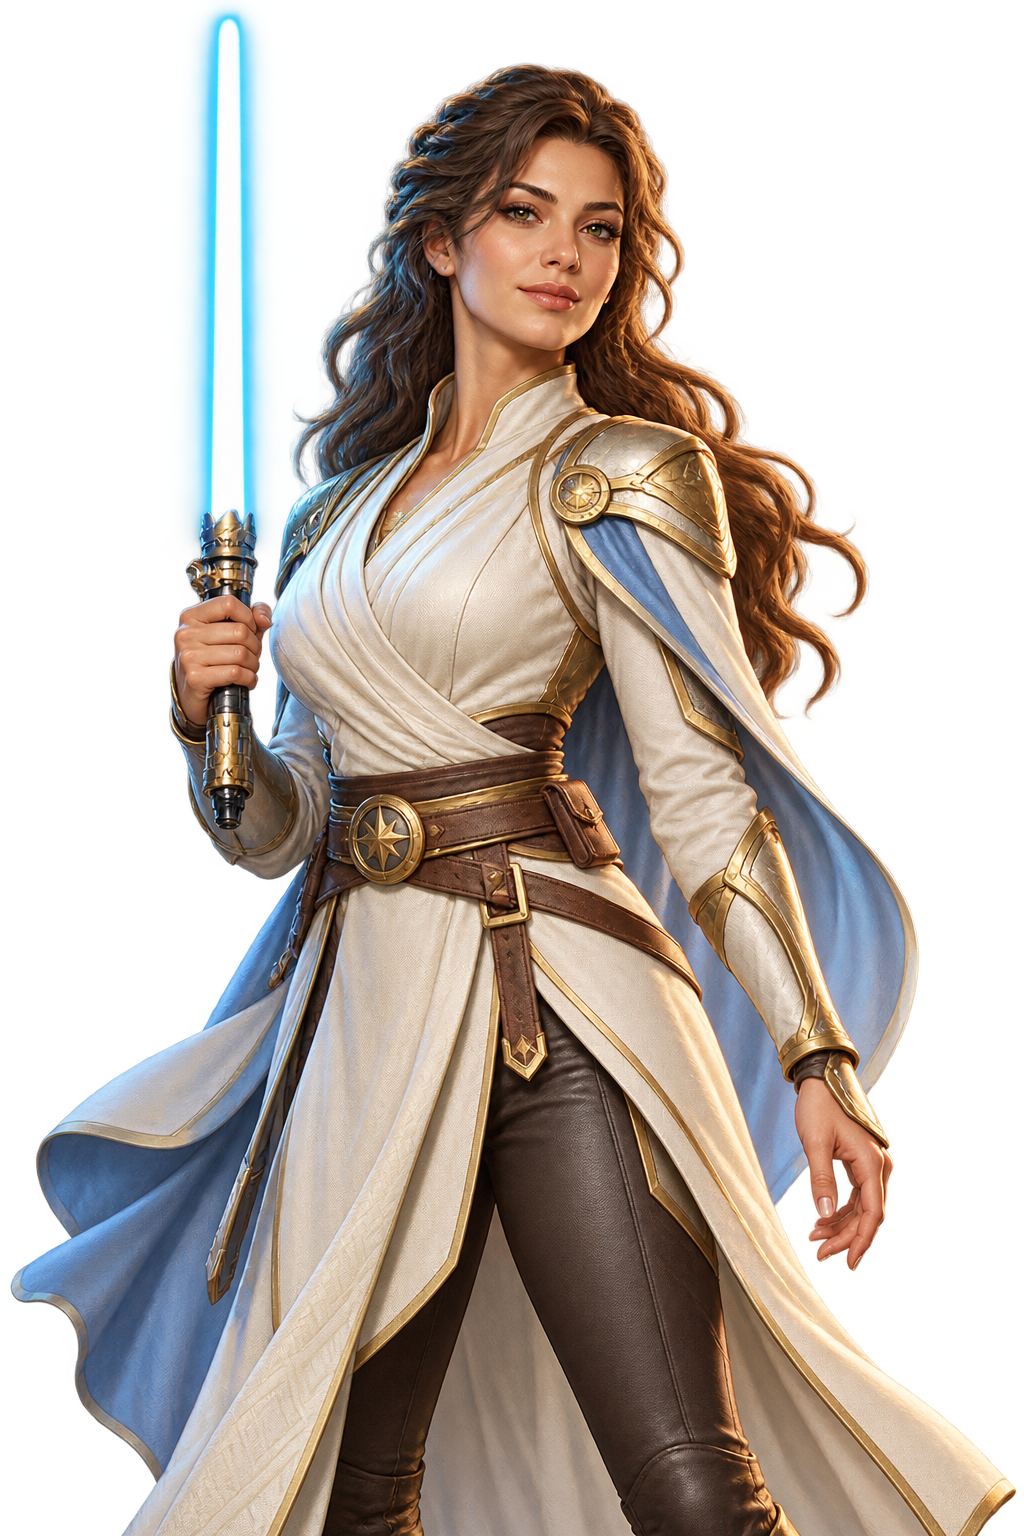
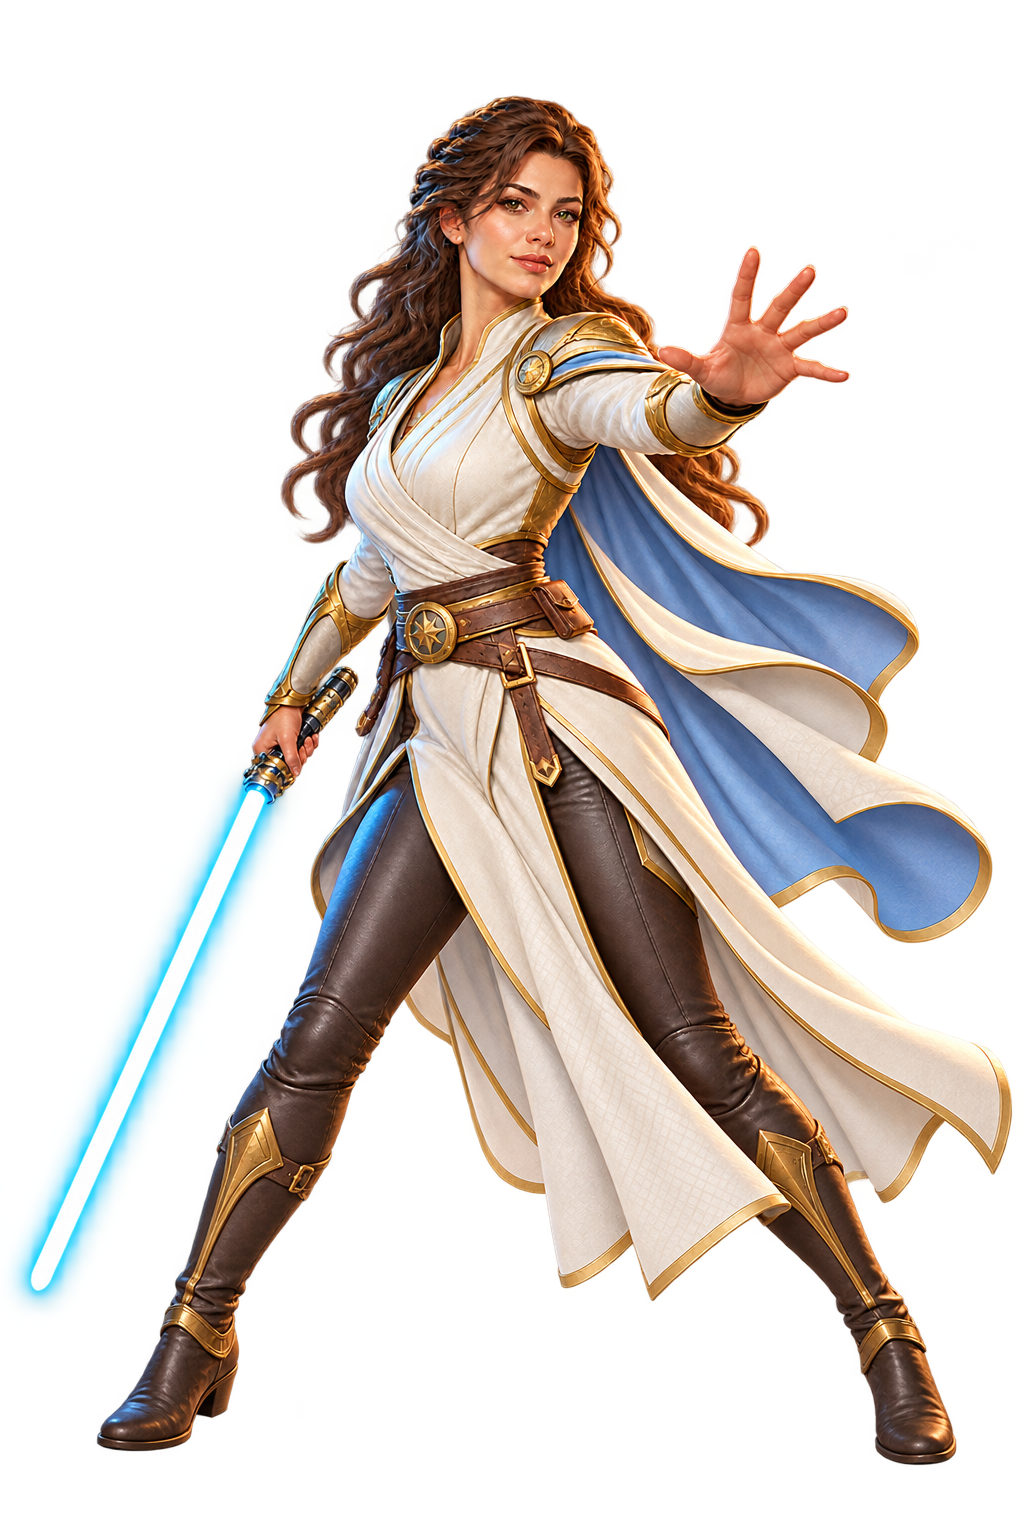
Give Star Spin companions distinct poses and verify free collection in the real host

diff --git a/tests/wild-nudge-host.spec.ts b/tests/wild-nudge-host.spec.ts
@@ -29,8 +29,25 @@ async function topup(page:Page){const r=await page.request.post('/__test/nudge/t
 async function scenario(page:Page,name:string){expect((await page.request.post('/__test/nudge/scenario',{data:{name}})).ok()).toBe(true);}
 async function session(page:Page){return page.evaluate(async()=>{const url='/src/wallet/ExpansionClient.ts';return(await import(/* @vite-ignore */url)).expansionClient.sessions.find((s:any)=>s.gameId==='studio-wild-nudge');});}
 async function spin(page:Page){await page.locator('[data-gn=spin]').click();await expect.poll(async()=>(await mini(page))?.busy).toBe(false);await expect.poll(async()=>(await mini(page))?.presenting).toBe(false);expect(await page.locator('[data-gn=status]').textContent()).not.toContain('не подтвержд');}
-async function fast(page:Page){await page.locator('[data-gn=settings]').click();await page.locator('[data-setting=fast]').check();await page.locator('[data-setting=music]').uncheck();await page.locator('[data-gn=close]').click();await expect(page.locator('.gn-modal')).toBeHidden();}
+async function fast(page:Page){await page.locator('[data-gn=settings]').click();await page.locator('[data-setting=fast]').check();await page.locator('[data-setting=music]').uncheck();await page.locator('[data-gn=close]').click();await expect(page.locator('[data-gn=modal]')).toBeHidden();}
 
+test('Star Spin side choice, free challenges and permanent companions use the real host account',async({page,roomPath})=>{
+ await enter(page,roomPath);await open(page);await expect(page.locator('.gn-title h2')).toHaveText('Star Spin');await expect(page.locator('[data-ss="side:light"]')).toBeEnabled();
+ await page.locator('[data-ss="side:light"]').click();await expect(page.locator('.gn')).toHaveAttribute('data-character','lyra');await expect(page.locator('[data-ss-portrait]')).toBeVisible();
+ await page.locator('[data-gn=crew]').click();await expect(page.locator('.ss-dialog')).toBeVisible();await page.getByRole('button',{name:'Задания',exact:true}).click();
+ for(const [id,answer]of [['lesson-side','0'],['lesson-wild','1'],['lesson-bonus','2'],['daily-archive','0']]){await page.locator(`[data-ss="answer:${id}:${answer}"]`).click();await expect(page.locator(`[data-ss="answer:${id}:${answer}"]`)).toHaveCount(0);}
+ await expect(page.locator('[data-ss-tokens]')).toHaveText('200');await page.locator('[data-ss="tab:light"]').click();await page.locator('[data-ss="unlock:aeliri"]').click();await expect(page.locator('[data-ss="select:aeliri"]')).toBeEnabled();await page.locator('[data-ss="select:aeliri"]').click();await expect(page.locator('.gn')).toHaveAttribute('data-character','aeliri');
+ await page.locator('[data-ss="tab:dark"]').click();await page.locator('[data-ss="unlock:nyxara"]').click();await expect(page.locator('[data-ss-tokens]')).toHaveText('0');await page.locator('[data-ss="select:nyxara"]').click();await expect(page.locator('.gn')).toHaveAttribute('data-character','nyxara');await page.locator('[data-ss=close]').click();
+ await page.screenshot({path:output+'/star-spin-dark.png'});await page.locator('#mini-dialog .mini-top [data-close]').click();await open(page);await expect(page.locator('.gn')).toHaveAttribute('data-character','nyxara');await expect(page.locator('[data-gn=spin]')).toBeDisabled();
+ await page.locator('[data-ss="side:light"]').click();await expect(page.locator('.gn')).toHaveAttribute('data-character','aeliri');await page.screenshot({path:output+'/star-spin-light.png'});expect(await session(page)).toBeUndefined();
+ await page.setViewportSize({width:390,height:844});await page.locator('[data-gn=crew]').click();await expect(page.locator('[data-ss-card=aeliri]')).toBeInViewport();await page.screenshot({path:output+'/star-spin-mobile-collection.png'});await page.keyboard.press('Escape');await expect(page.locator('.ss-dialog')).toBeHidden();await expect(page.locator('#chat-input')).toBeInViewport();
+});
+test('companion selection is locked during an accepted bonus and pending cosmetic replies recover with the same UUID',async({page,roomPath})=>{
+ await enter(page,roomPath);await topup(page);await open(page);await fast(page);await expect(page.locator('[data-ss="side:light"]')).toBeEnabled();const ids:string[]=[];let drop=true;
+ await page.route('**/api/star-spin/collection',async route=>{if(route.request().method()==='POST'){ids.push(route.request().postDataJSON().id);if(drop){drop=false;await route.fetch();await route.abort('failed');return;}}await route.continue();});
+ await page.locator('[data-ss="side:light"]').click();await expect.poll(async()=>(await mini(page)).collection.pending).toBe(true);await expect(page.locator('[data-gn=spin]')).toBeDisabled();await page.locator('[data-gn=crew]').click();await page.locator('[data-ss=retry]').click();await expect(page.locator('.gn')).toHaveAttribute('data-character','lyra');expect(ids).toHaveLength(2);expect(ids[0]).toBe(ids[1]);await page.locator('[data-ss=close]').click();
+ await scenario(page,'bonus');await spin(page);await expect(page.locator('[data-ss="side:dark"]')).toBeDisabled();await page.locator('[data-gn=crew]').click();await page.locator('[data-ss="tab:dark"]').click();await expect(page.locator('[data-ss="select:vespera"]')).toBeDisabled();await page.locator('[data-ss=close]').click();for(let i=0;i<8;i++)await spin(page);await expect(page.locator('[data-ss="side:dark"]')).toBeEnabled();
+});
 test('ordinary paid spin and all eight free continuations use the real host and common wallet',async({page,roomPath})=>{
  await enter(page,roomPath);await topup(page);await open(page);await fast(page);await scenario(page,'bonus');await spin(page);
  let saved=await session(page);expect(saved.view.wildNudge.remaining).toBe(8);expect(saved.spentUnits).toBe('100');expect(saved.returnedUnits).toBe('0');await expect(page.locator('[data-gn=stake]')).toBeDisabled();
@@ -70,7 +87,7 @@ test('responsive host keeps chat, settings and controls reachable without moving
  await spin(page);const drift=await page.evaluate(()=>{const state=(window as any).__gnAnchors;state.running=false;return Math.max(...state.samples.flatMap((s:any)=>s.flatMap((r:any,i:number)=>r.map((v:number,j:number)=>Math.abs(v-state.samples[0][i][j])))));});expect(drift).toBeLessThanOrEqual(.75);await writeFile(output+'/layout-verification.json',JSON.stringify({measurements,spinPanelDrift:drift},null,2));
 });
 test('settings persist, Escape closes only the inner panel and typing in chat cannot start a spin',async({page,roomPath})=>{
- await enter(page,roomPath);await topup(page);await open(page);await fast(page);await page.locator('[data-gn=settings]').click();await page.locator('[data-setting=effects]').uncheck();await page.locator('[data-setting=reduced]').check();await page.keyboard.press('Escape');await expect(page.locator('.gn-modal')).toBeHidden();await expect(page.locator('.gn')).toBeVisible();
+ await enter(page,roomPath);await topup(page);await open(page);await fast(page);await page.locator('[data-gn=settings]').click();await page.locator('[data-setting=effects]').uncheck();await page.locator('[data-setting=reduced]').check();await page.keyboard.press('Escape');await expect(page.locator('[data-gn=modal]')).toBeHidden();await expect(page.locator('.gn')).toBeVisible();
  const before=await session(page);await page.locator('#chat-input').fill('Проверка пробела');await page.locator('#chat-input').press('Space');await expect(page.locator('#chat-input')).toHaveValue('Проверка пробела ');expect(await session(page)).toEqual(before);
  await page.locator('#mini-dialog .mini-top [data-close]').click();await open(page);await page.locator('[data-gn=settings]').click();await expect(page.locator('[data-setting=music]')).not.toBeChecked();await expect(page.locator('[data-setting=effects]')).not.toBeChecked();await expect(page.locator('[data-setting=fast]')).toBeChecked();await expect(page.locator('[data-setting=reduced]')).toBeChecked();
 });

diff --git a/scripts/wild-nudge-preview.ts b/scripts/wild-nudge-preview.ts
@@ -1,6 +1,6 @@
 /** Disposable full-host verification. Production has no fixture endpoints or forced outcomes. */
 import {spawn} from 'node:child_process';
-import {randomUUID} from 'node:crypto';
+import {randomUUID,randomInt} from 'node:crypto';
 import {mkdir,writeFile} from 'node:fs/promises';
 import {createServer,type Plugin} from 'vite';
 import {temporaryDatabase} from './database-test';
@@ -14,14 +14,18 @@ let logs='',stopping=false,db:PostgresDatabase|undefined,wallet:DemoWalletStore;
 const forced=new Map<string,number[]>();
 backend.stdout.on('data',v=>logs=(logs+v).slice(-6000));backend.stderr.on('data',v=>logs=(logs+v).slice(-6000));
 const scenarios:Record<string,number[]>={loss:[30,30,30,30,30],nudge:[1,2,62,63,30],bonus:[2,45,2,16,14,...Array(40).fill(30)],maximum:[2,45,2,16,14,...Array(40).fill(2)],win:[2,2,2,2,2]};
-const plugin:Plugin={name:'wild-nudge-local-fixture',configureServer(server){server.middlewares.use(async(req,res,next)=>{
+// Local-only opt-in for the user's unpublished module. Production catalogue and
+// its ten-cent admission gate remain unchanged until the monetary migration.
+const plugin:Plugin={name:'wild-nudge-local-fixture',enforce:'pre',transform(code,id){
+ if(!id.replaceAll('\\','/').endsWith('/src/shared/arcadeCatalog.ts'))return;
+ return{code:code.replace("...ARCADE_HOUSE_GAMES, CARIBBEAN_GAME, 'studio-flooded-temple'","...ARCADE_HOUSE_GAMES, CARIBBEAN_GAME, 'studio-wild-nudge', 'studio-flooded-temple'").replace("id==='studio-wild-nudge'||id==='flag-tote'","id==='flag-tote'"),map:null};
+},configureServer(server){server.middlewares.use(async(req,res,next)=>{
  const path=new URL(req.url||'/',api).pathname;
  if(path==='/__test/nudge/stop'&&req.method==='POST'){res.end('stopping');void stop().then(()=>process.exit(0));return;}
  const fixture=path.startsWith('/__test/nudge/');
  if(!fixture&&!(path==='/api/demo-wallet/expansion'&&req.method==='POST')){next();return;}
  try{
   const identity=await fetch(api+'/api/auth/me',{headers:{Cookie:req.headers.cookie||''}}).then(r=>r.json());if(!identity.account)throw new WalletError(401,'Войди в зал.');const account=identity.account.id;
-  if(!fixture&&!forced.has(account)){next();return;}
   if(req.headers.origin&&new URL(req.headers.origin).origin!==new URL('http://127.0.0.1:'+webPort).origin)throw new WalletError(403,'Unexpected local origin');
   if(req.headers['x-royal-account-id']&&req.headers['x-royal-account-id']!==account)throw new WalletError(401,'Account changed');
   let text='';if(req.method==='POST')for await(const part of req){text+=part;if(text.length>8192)throw new WalletError(413,'Too large');}const body=text?JSON.parse(text):{};
@@ -30,8 +34,8 @@ const plugin:Plugin={name:'wild-nudge-local-fixture',configureServer(server){ser
   if(path==='/__test/nudge/topup'&&req.method==='POST'){const amount=body.amount??1000;if(!Number.isSafeInteger(amount)||amount<1||amount>10000)throw Error('Invalid fixture credit');reply=await wallet.operate(account,{id:randomUUID(),kind:'deposit',amount});}
   else if(path==='/__test/nudge/scenario'&&req.method==='POST'){const tickets=scenarios[body.name];if(!tickets)throw Error('Unknown scenario');forced.set(account,tickets.slice());reply={ready:true};}
   else if(path==='/api/demo-wallet/expansion'&&req.method==='POST'){
-   if(body.gameId!==WILD_NUDGE_GAME)throw new WalletError(400,'Fixture only supports Galactic Reactor');const tickets=forced.get(account)!;
-   const local=new DemoWalletStore(db,max=>{const ticket=tickets.length?tickets.shift()!:30;if(ticket>=max)throw Error('Fixture entropy mismatch');return ticket;});await local.ready;
+   if(body.gameId!==WILD_NUDGE_GAME){const response=await fetch(api+path,{method:'POST',headers:{...Object.fromEntries(Object.entries(req.headers).filter(([key,value])=>!['host','content-length','connection'].includes(key)&&typeof value==='string')),'Content-Type':'application/json'},body:JSON.stringify(body)});res.statusCode=response.status;res.setHeader('Content-Type','application/json');res.end(await response.text());return;}const tickets=forced.get(account);
+   const local=new DemoWalletStore(db,max=>{const ticket=tickets?(tickets.length?tickets.shift()!:30):randomInt(max);if(ticket>=max)throw Error('Fixture entropy mismatch');return ticket;});await local.ready;
    reply=await local.expansion.operate(account,body,2,true,true,true,true,true,true,true,true,2,4,true,true,2,2,2,req.headers[WILD_NUDGE_CLIENT_HEADER.toLowerCase()]==='1');
    if((reply as any).session?.state==='settled')forced.delete(account);
   }else throw new WalletError(404,'Unknown fixture');

diff --git a/src/ui/DemoWalletUI.ts b/src/ui/DemoWalletUI.ts
@@ -72,7 +72,7 @@ export class DemoWalletUI {
       const row = document.createElement('li'); row.dataset.kind = entry.kind;
       const label = document.createElement('span');
       const action = { deposit: translateText('Пополнение'), bet: translateText('ставка'), win: translateText('начисление'), refund: translateText('возврат ставки'), rollback: translateText('отмена операции') }[entry.kind];
-      const gameName = entry.source === 'original-jackie-chan' ? translateText('Гонконгский воин') : (entry.gameName ? translateText(entry.gameName) : '') || (entry.source === 'casinoapipro' ? 'Casino Api Pro' : entry.source === 'royal-roulette' ? translateText('Рулетка') : 'Royal Coins');
+      const gameName = entry.source === 'studio-wild-nudge' ? 'Star Spin' : entry.source === 'original-jackie-chan' ? translateText('Гонконгский воин') : (entry.gameName ? translateText(entry.gameName) : '') || (entry.source === 'casinoapipro' ? 'Casino Api Pro' : entry.source === 'royal-roulette' ? translateText('Рулетка') : 'Royal Coins');
       label.textContent = entry.kind === 'deposit' ? entry.source === 'nowpayments-sandbox' ? 'NOWPayments Sandbox' : action : `${gameName}: ${action}`;
       const amount = document.createElement('strong'); amount.textContent = `${entry.amount > 0 ? '+' : ''}${coins(entry.amount)}`;
       const detail = document.createElement('small'); detail.textContent = tr`${new Date(entry.createdAt).toLocaleString(locale)} · Остаток ${coins(entry.balance)}`;

diff --git a/src/shared/arcadeCatalog.ts b/src/shared/arcadeCatalog.ts
@@ -44,7 +44,7 @@ export const ACTIVE_ARCADE_GAMES: readonly string[] = ARCADE_CABINET_SPECS.map(c
 export const ROYAL_CABINET_IDS = ARCADE_CABINET_SPECS.filter(c=>c.collection==='royal').map(c=>c.id);
 export const ARCADE_CABINET_POSITIONS: Readonly<Record<string,{x:number;y:number}>> = Object.fromEntries(ARCADE_CABINET_SPECS.map(c=>[c.id,{x:c.x,y:c.y}]));
 export const STUDIO_CABINET_GAMES = ACTIVE_STUDIO_GAMES;
-export const ROYAL_PLATFORM_GAMES: readonly string[] = [...ARCADE_HOUSE_GAMES, CARIBBEAN_GAME, 'studio-wild-nudge', 'studio-flooded-temple', 'royal-roulette', 'flag-battle'];
+export const ROYAL_PLATFORM_GAMES: readonly string[] = [...ARCADE_HOUSE_GAMES, CARIBBEAN_GAME, 'studio-flooded-temple', 'royal-roulette', 'flag-battle'];
 export const ROYAL_COLLECTION_GAMES = ROYAL_PLATFORM_GAMES;
 export const PLATFORM_CABINET_DEFAULTS: Readonly<Record<string,string>> = Object.freeze(Object.fromEntries(ARCADE_CABINET_SPECS.filter(c=>c.defaultGameId).map(c=>[c.id,c.defaultGameId!])));
 export const isPlatformGame=(id:string):boolean=>ROYAL_PLATFORM_GAMES.includes(id);
@@ -52,4 +52,4 @@ export const collectionGames=(collection:CabinetCollection):readonly string[] =>
 export const isCollectionGame=(collection:CabinetCollection,id:string):boolean=>collectionGames(collection).includes(id);
 
 // These modules are present in source but have never been opened in production.
-export const isUnpublishedArcadeGame=(id:unknown):boolean=>id==='flag-tote';
+export const isUnpublishedArcadeGame=(id:unknown):boolean=>id==='studio-wild-nudge'||id==='flag-tote';

diff --git a/src/shared/casinoExpansion.ts b/src/shared/casinoExpansion.ts
@@ -25,7 +25,7 @@ export const BASE_EXPANSION_GAMES = ['github-diamonds','github-crash','github-th
 export const EXPANSION_GAMES = [...BASE_EXPANSION_GAMES,...VARIANT_GAMES,...STUDIO_GAMES,PENALTY_GAME,TEMPLE_GAME,FOREST_HEART_GAME,CARIBBEAN_GAME,FLAG_GAME,JACKIE_GAME,WILD_NUDGE_GAME] as const;
 export type ExpansionGameId = typeof EXPANSION_GAMES[number];
 export const EXPANSION_NAMES: Record<ExpansionGameId,string> = {
-  [WILD_NUDGE_GAME]:translateText('Star Spin'),
+  [WILD_NUDGE_GAME]:translateText('Галактический реактор'),
   [JACKIE_GAME]:translateText('Гонконгский воин'),
   [FLAG_GAME]:translateText('Флажочки'),
   [FOREST_HEART_GAME]:translateText('Сердце леса'),

diff --git a/docs/concepts/wild-nudge/collection-policy.md b/docs/concepts/wild-nudge/collection-policy.md
@@ -10,6 +10,8 @@
 
 Профили, открытия и задания хранятся в общей PostgreSQL БД аккаунтов. API использует общую cookie-сессию и заголовок владельца аккаунта. Сервер проверяет задания, награды, стоимость, владение и идемпотентный UUID, сериализует изменения аккаунта и запрещает запросы с чужого origin. После неясного сетевого результата клиент повторяет тот же UUID. Смена аккаунта отменяет ожидание и отбрасывает ответ старого владельца.
 
-Нужен совместимый общий backend с `/api/star-spin/collection` и миграцией `star-spin-cosmetic-collection-v1` перед независимой публикацией клиентского пакета 1.2.0. Технический ID игры и контракт оплаченных правил остаются прежними. Другие игры и доступность каталогов не меняются. Этот этап не является публикацией на боевой сервер.
+Нужен совместимый общий backend с `/api/star-spin/collection` и миграцией `star-spin-cosmetic-collection-v1` перед независимой публикацией клиентского пакета 1.2.0. Технический ID игры и контракт оплаченных правил остаются прежними. Другие игры и доступность production каталогов не меняются. Этот этап не является публикацией на боевой сервер.
+
+Star Spin остаётся unpublished в общем каталоге. На актуальном main публикация новой игры требует общей системы ставок от 0,10 USDT и квалификации точности полного раунда. Исходный прототип v1 квалифицирован для 1/2/5/10/20/50 USDT; перенос на общие номиналы является отдельной обязательной работой перед выпуском. Локальный `scripts/wild-nudge-preview.ts` явно открывает только этот разрешённый пользователем модуль в настоящем host с чатом и одноразовой PostgreSQL БД. Его тестовый middleware использует общий серверный движок и кошелёк; он не попадает в production и не отменяет admission gate.
 
 Представление: портрет героини ограничен отдельной колонкой, не перекрывает барабаны, кнопки настроек или деньги. На узком экране полная коллекция открывается кнопкой со звездой в шапке. Смена стороны меняет акцент освещения, без вспышек и без анимации перестройки нижней панели. Выбор и открытие подтверждаются текстом после ответа API; эти события не используют звук денежного выигрыша. Техническое соответствие не является оценкой привлекательности персонажей или качества прослушивания.

diff --git a/docs/concepts/wild-nudge/rules-v1.md b/docs/concepts/wild-nudge/rules-v1.md
@@ -1,4 +1,4 @@
-# Галактический реактор: правила 1
+# Star Spin: правила прототипа 1
 
 Дата: 30 октября 2026. Серверный профиль первой версии имеет статус `qualified`, версия правил и прогресса 1. Параметры математического этапа сохранены в реализованной игре. Изменение полос, вероятностей, множителей, ставок, линий, бонусов или платных режимов требует нового расчёта и квалификации полного раунда.
 

diff --git a/games/wild-nudge/feedback.md b/games/wild-nudge/feedback.md
@@ -1,4 +1,4 @@
-# Galactic Reactor v1 feedback
+# Star Spin v1 feedback
 
 Uses docs/game-feedback.md. Every reel stop, nudge and amount comes from the accepted server spin. The displayed stack is one three-cell tower whose position follows the recorded cyclic stop path. No decorative event changes a wager or future result.
 
